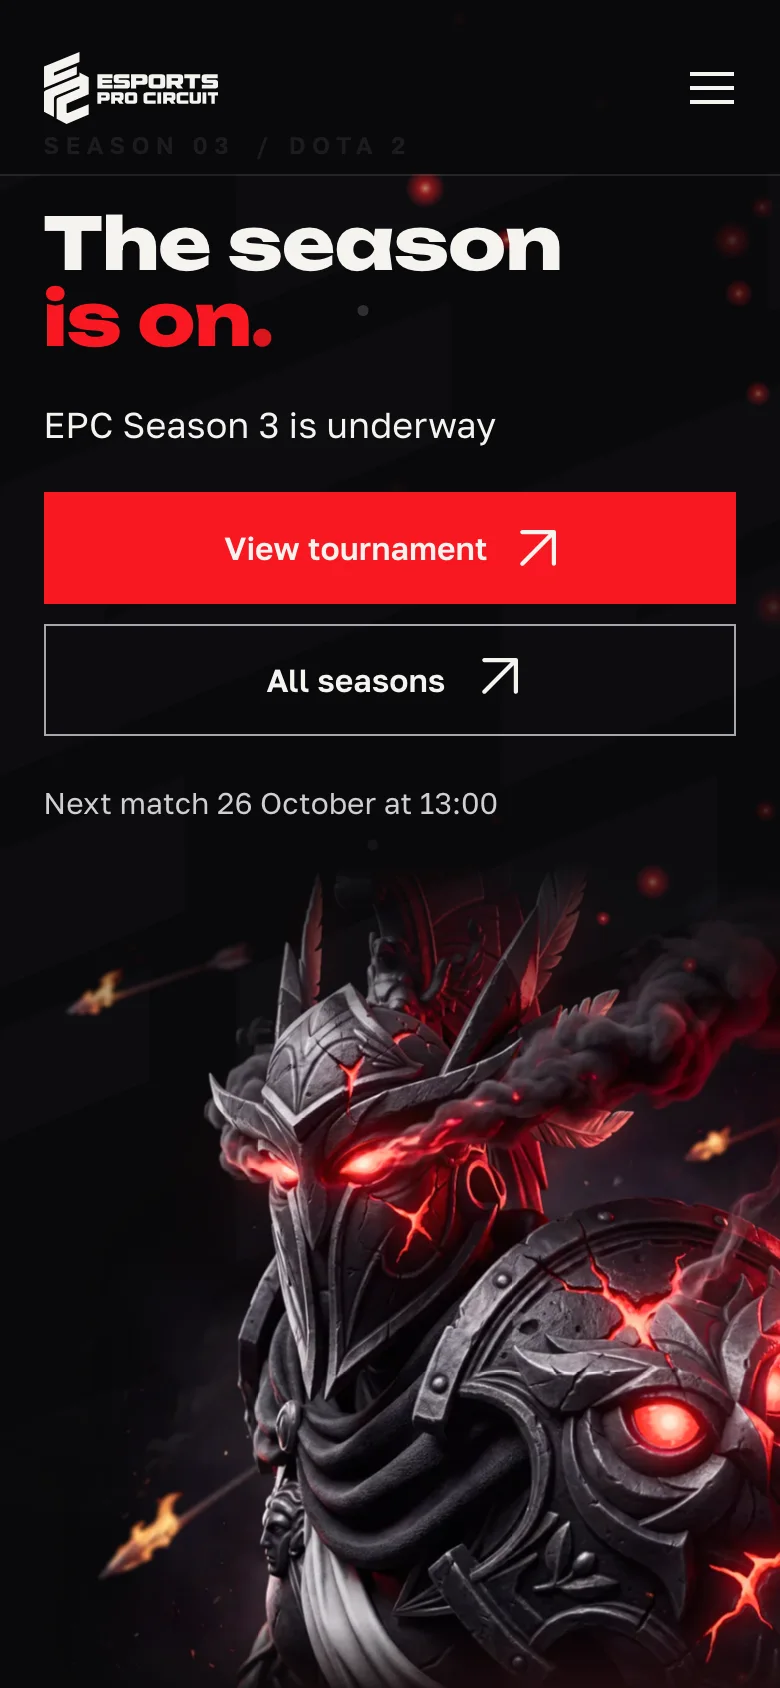
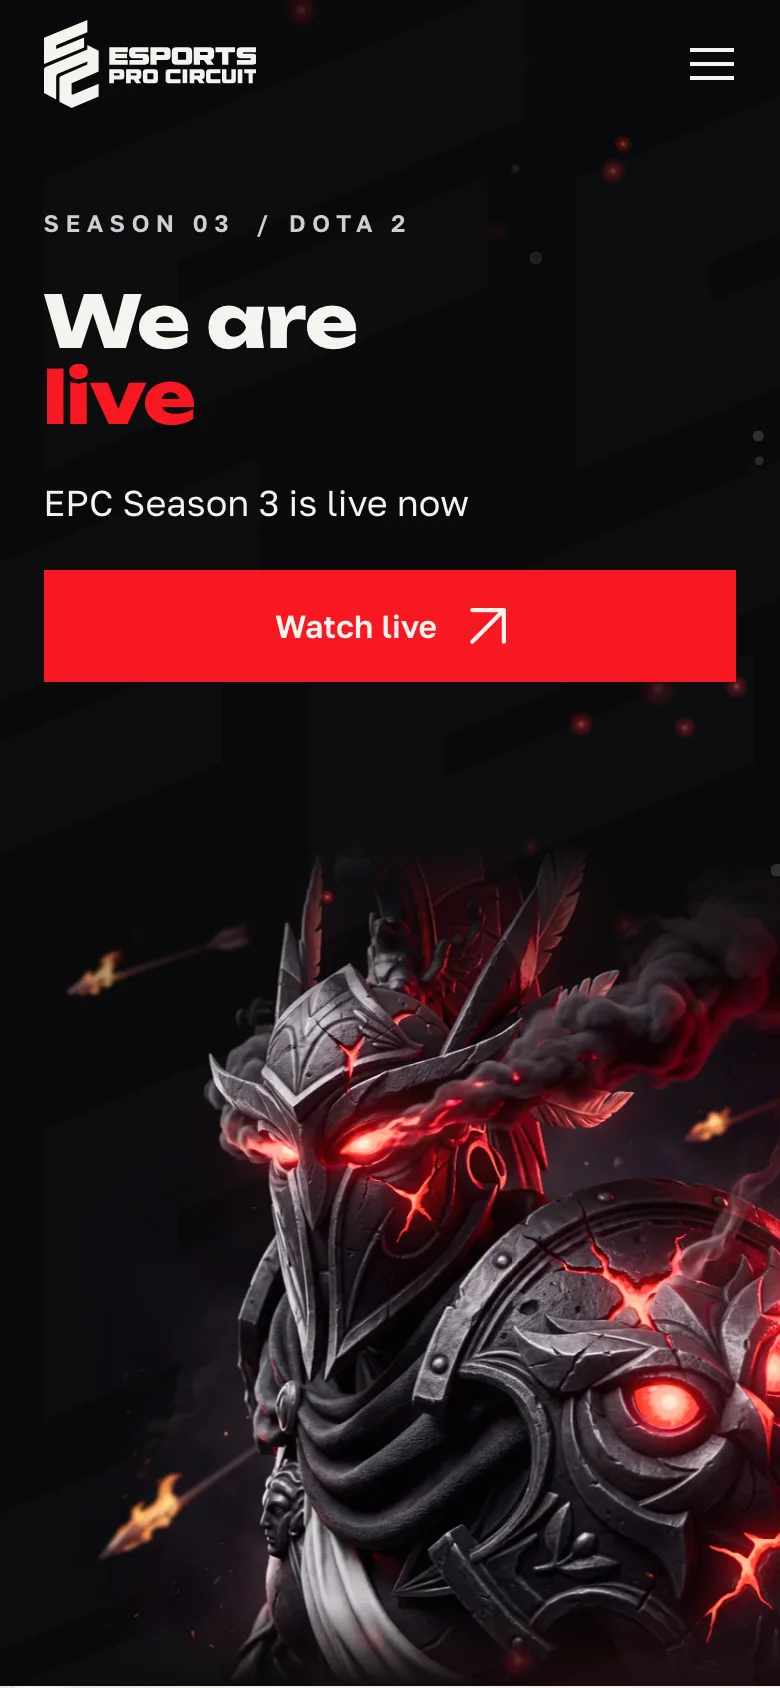
EPC case: review fixes
- No «works on <domain>» / «on air» framing: chapter 01 has no where line,
  EPC and FACEMAIL results say what was built instead.
- No em dashes in the case copy; credits read «Макеты графики: дизайнер EPC».
- Site home stills re-shot without the live match line (real Season 3 data).
- Copy: no TI comparison, team name abbreviations only, tie-breaks per the
  rules, the caster's PC; Telegram Bot API and EPC Fixed Abilities kept whole,
  the last word of a paragraph never hangs alone.
- Phones: the draft strip is cut at the frame between the centre panel and
  the other team instead of losing hero names at both edges.

diff --git a/_landing/src/cases.ts b/_landing/src/cases.ts
@@ -70,15 +70,15 @@ export const CASES: Record<string, Case> = {
     task:
       'Организаторам нужен был свой сайт сезона: где и когда играют, кто с кем, какой счёт, кто прошёл дальше и куда подать заявку. До этого всё жило в гугл-таблице и постах.',
     did: [
-      'Сезоны, группы и сетка плей-офф. Таблица очков считается сама по правилам турнира: 2:0 — три очка, тай-брейк по личной встрече и разнице карт.',
+      'Сезоны, группы и сетка плей-офф. Таблица очков считается сама: 2:0 даёт три очка, тай-брейки по правилам турнира.',
       'Матч-центр, страницы команд с ростерами, заявки на участие.',
       'Админка с черновиком: правки видны только организаторам, пока их не опубликуют.',
-      'Синхронизация с таблицей организаторов: расписание и счёт подтягиваются раз в минуту, сокращения и опечатки в названиях команд узнаются сами.',
+      'Синхронизация с таблицей организаторов: расписание и счёт подтягиваются раз в минуту, сокращения названий команд узнаются\u00a0сами.',
       'Telegram-бот для организаторов.',
       'Для зрителей из России сайт открывается через отдельный сервер в Москве, без VPN.',
     ],
     stack: ['Next.js', 'PostgreSQL', 'Prisma', 'Docker', 'Telegram Bot API'],
-    result: 'Работает на epc-tournament.com, на нём идёт третий сезон.',
+    result: 'Расписание, сетка, матчи и заявки сезона собраны на одном сайте вместо таблиц и постов.',
     open: 'Открыть epc-tournament.com',
     hero: {
       src: EPC + 'game.mp4',
@@ -93,11 +93,10 @@ export const CASES: Record<string, Case> = {
         id: 'platform',
         title: 'Турнирная платформа',
         lead: 'Свой сайт сезона вместо гугл-таблицы и постов в чатах: где и когда играют, кто с кем, какой счёт и куда подать заявку.',
-        where: 'Работает на epc-tournament.com, на нём идёт третий сезон.',
         blocks: [
           {
             kind: 'devices',
-            desktop: { src: EPC + 'site-home.webp', w: 2160, h: 1320, alt: 'Главная страница epc-tournament.com на компьютере' },
+            desktop: { src: EPC + 'site-home.webp', w: 2160, h: 1350, alt: 'Главная страница epc-tournament.com на компьютере' },
             phones: [
               { src: EPC + 'm-home.webp', w: 780, h: 1688, alt: 'Главная страница на телефоне', phone: true },
               { src: EPC + 'm-match.webp', w: 780, h: 1688, alt: 'Матч-центр на телефоне', phone: true },
@@ -106,7 +105,7 @@ export const CASES: Record<string, Case> = {
           {
             kind: 'grid',
             items: [
-              { src: EPC + 'site-groups.webp', w: 2160, h: 960, alt: 'Групповой этап Season 2', caption: 'Группы. Очки считаются сами по правилам турнира: 2:0 — три очка, тай-брейк по личной встрече и разнице карт.' },
+              { src: EPC + 'site-groups.webp', w: 2160, h: 960, alt: 'Групповой этап Season 2', caption: 'Группы. Очки считаются сами: 2:0 даёт три очка, тай-брейки по правилам турнира.' },
               { src: EPC + 'site-match.webp', w: 2160, h: 1500, alt: 'Матч-центр финала Season 2', caption: 'Матч-центр: счёт серии, пики и баны, статистика игроков по каждой карте.' },
               { src: EPC + 'site-lineup.webp', w: 2160, h: 1140, alt: 'Команды и ростеры Season 2', caption: 'Команды сезона и их ростеры с ролями.' },
               { src: EPC + 'site-bracket.webp', w: 2160, h: 780, alt: 'Сетка плей-офф Season 2', caption: 'Сетка плей-офф с результатами серий.' },
@@ -117,10 +116,10 @@ export const CASES: Record<string, Case> = {
             items: [
               'Заявки команд на участие прямо на сайте.',
               'Админка с черновиком: правки видят только организаторы, пока их не опубликуют.',
-              'Синхронизация с таблицей организаторов: расписание и счёт подтягиваются раз в минуту, сокращения и опечатки в названиях команд узнаются сами.',
+              'Синхронизация с таблицей организаторов: расписание и счёт подтягиваются раз в минуту, сокращения названий команд узнаются\u00a0сами.',
               'Telegram-бот для организаторов.',
               'Для зрителей из России сайт открывается через отдельный сервер в Москве, без VPN.',
-              'Стек: Next.js, PostgreSQL, Prisma, Docker, Telegram Bot API.',
+              'Стек: Next.js, PostgreSQL, Prisma, Docker, Telegram\u00a0Bot\u00a0API.',
             ],
           },
         ],
@@ -129,7 +128,7 @@ export const CASES: Record<string, Case> = {
         id: 'broadcast',
         title: 'Графика трансляций Season 3',
         lead: 'Эфирные сцены для OBS и HUD для LHM.gg, который сам берёт из Dota 2 пики, баны, героев и счёт. Макеты нарисовал дизайнер EPC, я их анимировал, собрал и связал с сайтом.',
-        where: 'В эфирах третьего сезона EPC.',
+        where: 'HUD отдаётся архивом для LHM.gg, остальные сцены подключаются в OBS ссылкой из админки.',
         blocks: [
           {
             kind: 'band',
@@ -180,8 +179,8 @@ export const CASES: Record<string, Case> = {
       {
         id: 'mod',
         title: 'Мод интерфейса Dota 2',
-        lead: 'У Инвокера, Кез и ещё нескольких героев способностей больше, и нижняя панель Доты становится шире. Из-за этого рамка HUD прыгала от героя к герою. Мод EPC Fixed Abilities держит панель одной ширины, как на эфирах TI: у героев с шестью и больше способностями иконки просто мельче.',
-        where: 'Стоит на эфирном ПК кастеров вместе с HUD, к нему есть гайд по установке.',
+        lead: 'У Инвокера, Кез и ещё нескольких героев способностей больше, и нижняя панель Доты становится шире. Из-за этого рамка HUD прыгала от героя к герою. Мод EPC\u00a0Fixed\u00a0Abilities держит панель одной ширины: у героев с шестью и больше способностями иконки просто мельче.',
+        where: 'Стоит на ПК кастера вместе с HUD, к нему есть гайд по установке.',
         blocks: [
           {
             kind: 'widths',
@@ -201,11 +200,11 @@ export const CASES: Record<string, Case> = {
       },
     ],
     credits: [
-      { part: 'Платформа epc-tournament.com', who: 'разработка — KERNØ; фирменный стиль и арт — EPC' },
-      { part: 'Графика трансляций', who: 'макеты — дизайнер EPC; анимация, сборка, HUD для LHM.gg и связь с сайтом — KERNØ' },
-      { part: 'Мод Dota 2 и гайд для кастеров', who: 'KERNØ' },
+      { part: 'Платформа epc-tournament.com', who: 'Разработка: KERNØ. Фирменный стиль и арт: EPC.' },
+      { part: 'Графика трансляций', who: 'Макеты графики: дизайнер EPC. Анимация, сборка, HUD для LHM.gg и связь с сайтом: KERNØ.' },
+      { part: 'Мод Dota 2 и гайд для кастеров', who: 'Разработка: KERNØ.' },
     ],
-    note: 'Записи сделаны с публичных превью на epc-tournament.com, данные матчей в них тестовые. Логотипы и арт принадлежат EPC.',
+    note: 'Скриншоты сайта сняты с завершённого Season 2. В записях эфирной графики данные тестовые, они сделаны с публичных превью. Логотипы и арт принадлежат EPC.',
   },
   facemail: {
     lead: 'Своя почта на своём домене: веб-клиент, почтовый сервер и поддержка.',
@@ -219,7 +218,7 @@ export const CASES: Record<string, Case> = {
       'Админка и журнал событий: видно, кто и когда входил и что менялось.',
     ],
     stack: ['Django', 'PostgreSQL', 'Stalwart Mail', 'Docker', 'Caddy'],
-    result: 'Работает на facemail.site.',
+    result: 'Свой домен, свой почтовый сервер, веб-клиент и поддержка собраны в один продукт.',
     open: 'Открыть facemail.site',
   },
   roman: {

diff --git a/_landing/src/case-chapters.ts b/_landing/src/case-chapters.ts
@@ -18,7 +18,8 @@ const pad = (n: number) => String(n).padStart(2, '0');
 export function chapterCase(p: Project, c: Case, next: Project | null, h: Helpers) {
   const { esc, glue, arrow } = h;
   // hyphenated words (тай-брейк, плей-офф, epc-tournament.com) never break at the hyphen
-  const t = (s: string) => esc(glue(s)).replace(/[\p{L}\d]+(?:[-–][\p{L}\d]+)+(?:\.\p{L}+)?/gu, '<span class="nw">$&</span>');
+  // and the last word of a line of copy never hangs alone
+  const t = (s: string) => esc(glue(s.replace(/ (\S+)\s*$/, '\u00a0$1'))).replace(/[\p{L}\d]+(?:[-–][\p{L}\d]+)+(?:\.\p{L}+)?/gu, '<span class="nw">$&</span>');
   const chapters = c.chapters ?? [];
   const external = p.external || /^https?:/.test(p.href) ? ' target="_blank" rel="noopener"' : '';
 

diff --git a/_landing/src/styles.css b/_landing/src/styles.css
@@ -1819,12 +1819,13 @@ html.has-cursor :is(input, textarea, select, [contenteditable='true']) {
   .ec-open {
     justify-self: stretch;
   }
-  /* the draft strip is too thin at phone width: keep its middle, taller */
+  /* the whole draft strip is too thin at phone width: keep one team and the
+     centre panel, cut exactly at the frame between the panel and the other team */
   .ec-band .ec-frame {
-    aspect-ratio: 16 / 7;
+    aspect-ratio: 1112 / 364;
   }
   .ec-band .ec-frame > video {
-    object-position: center top;
+    object-position: left center;
   }
   .ec-w-row {
     grid-template-columns: 64px minmax(0, 1fr);
